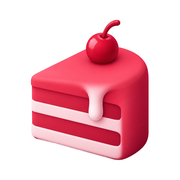
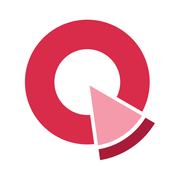
feat(brand): 심볼과 앱 아이콘을 파이 차트로 교체 + spec, design 갱신
- symbol.svg(원 고리 #D92B4A, 파이 조각 몸통 #F59AAB, 크러스트 #A81C38) 추가, 벡터 원본
- app-icon, app-icon-macos, symbol, favicon-32/48, apple-touch-icon, 데스크톱 icon·tray, 웹·웹사이트 파비콘을 SVG에서 다시 만듦
- og.png 새 심볼로 다시 만듦
- 04-brand, 28-website, DESIGN, Brand, Illustrations, DEV_GUIDE: 상징 설명을 케이크 조각 → 파이 차트, ‘케이크 분홍’ → ‘분홍’

Claude-Session: https://claude.ai/code/session_011XUPzQwUTy2QBAmKAmrj3h

diff --git a/packages/ui/src/styles/tokens.css b/packages/ui/src/styles/tokens.css
@@ -1,4 +1,4 @@
-/* docs/design/tokens.css에서 복사 (345b148). 손으로 고치지 말고 원본을 고친 뒤 pnpm ds:sync */
+/* docs/design/tokens.css에서 복사 (bd294e4). 손으로 고치지 말고 원본을 고친 뒤 pnpm ds:sync */
 /* sweeTwo — generated from tokens.json */
 :root, [data-theme="light"] {
   --surface: #ffffff; /* 앱 바탕과 기본 카드 바탕. 모든 본문 글자는 이 위에서 읽혀야 함. */
@@ -14,7 +14,7 @@
   --muted: #a8a59e; /* 비활성 글자·아이콘에만. 자리표시·다른 달 날짜는 stone. 읽어야 하는 정보에는 쓰지 않음. */
   --on-ink: #ffffff; /* 주 버튼(ink 바탕) 위 글자. */
   --primary-pressed: #3a3835; /* 주 버튼 누름 상태 바탕. 글자는 on-ink. */
-  --brand: #d92b4a; /* sweeTwo 브랜드 색(케이크 분홍, 심볼 케이크 조각의 분홍빛을 한 단계 진하게). 작은 점과 글자에만: 워드마크, 달성 배지, 새 알림 점, 순자산 차트 끝점. 카드·띠·패널 같은 넓은 면과 버튼에는 쓰지 않음(오류 버튼과 헷갈림). */
+  --brand: #d92b4a; /* sweeTwo 브랜드 색(분홍, 심볼 원 고리 색). 작은 점과 글자에만: 워드마크, 달성 배지, 새 알림 점, 순자산 차트 끝점. 카드·띠·패널 같은 넓은 면과 버튼에는 쓰지 않음(오류 버튼과 헷갈림). */
   --brand-soft: #fde8ec; /* 브랜드 색의 옅은 판. 달력의 오늘 날짜 칸에만. */
   --brand-ink: #9e0f2c; /* brand-soft 위 글자(오늘 날짜), 축하 화면 머리글 글자. */
   --on-brand: #ffffff; /* brand 바탕 위 글자(달성 배지). 라이트는 흰 글자, 다크는 어두운 글자. */

diff --git a/docs/design/tokens.css b/docs/design/tokens.css
@@ -13,7 +13,7 @@
   --muted: #a8a59e; /* 비활성 글자·아이콘에만. 자리표시·다른 달 날짜는 stone. 읽어야 하는 정보에는 쓰지 않음. */
   --on-ink: #ffffff; /* 주 버튼(ink 바탕) 위 글자. */
   --primary-pressed: #3a3835; /* 주 버튼 누름 상태 바탕. 글자는 on-ink. */
-  --brand: #d92b4a; /* sweeTwo 브랜드 색(케이크 분홍, 심볼 케이크 조각의 분홍빛을 한 단계 진하게). 작은 점과 글자에만: 워드마크, 달성 배지, 새 알림 점, 순자산 차트 끝점. 카드·띠·패널 같은 넓은 면과 버튼에는 쓰지 않음(오류 버튼과 헷갈림). */
+  --brand: #d92b4a; /* sweeTwo 브랜드 색(분홍, 심볼 원 고리 색). 작은 점과 글자에만: 워드마크, 달성 배지, 새 알림 점, 순자산 차트 끝점. 카드·띠·패널 같은 넓은 면과 버튼에는 쓰지 않음(오류 버튼과 헷갈림). */
   --brand-soft: #fde8ec; /* 브랜드 색의 옅은 판. 달력의 오늘 날짜 칸에만. */
   --brand-ink: #9e0f2c; /* brand-soft 위 글자(오늘 날짜), 축하 화면 머리글 글자. */
   --on-brand: #ffffff; /* brand 바탕 위 글자(달성 배지). 라이트는 흰 글자, 다크는 어두운 글자. */

diff --git a/packages/ui/src/styles/bundle.css b/packages/ui/src/styles/bundle.css
@@ -1,4 +1,4 @@
-/* docs/design/bundle.css에서 복사 (345b148). 손으로 고치지 말고 원본을 고친 뒤 pnpm ds:sync */
+/* docs/design/bundle.css에서 복사 (bd294e4). 손으로 고치지 말고 원본을 고친 뒤 pnpm ds:sync */
 /* sweeTwo 컴포넌트 스타일: tokens.css 다음에 로드. 모든 값은 토큰에서. */
 .hg-root { font-family: var(--font-sans); color: var(--ink); background: var(--surface); font-variant-numeric: tabular-nums; }
 .hg-row { display: flex; flex-wrap: wrap; gap: var(--space-3); align-items: center; }

diff --git a/docs/spec/04-brand.md b/docs/spec/04-brand.md
@@ -3,9 +3,9 @@
 ## 1. 브랜드 핵심
 
 - **이름**: sweeTwo(스위투). sweet + two, 달콤한 둘. T는 늘 대문자
-- **슬로건**: “함께 구워 더 달콤한 자산파이”. 둘이 함께 모은 돈(자산파이)을 둘이 함께 구워 키운 파이의 한 조각이라는 뜻, 상징(케이크 조각)과 짝
+- **슬로건**: “함께 구워 더 달콤한 자산파이”. 둘이 함께 모은 돈(자산파이)을 둘이 함께 구워 키운 파이의 한 조각이라는 뜻, 상징(파이 차트 조각)과 짝
 - 캐치프레이즈는 ‘함께 구워 더 달콤한 자산파이’ 하나만. 새 표어를 만들지 않음
-- **상징**: 체리를 얹은 케이크 조각(3D). 앱 아이콘, 심볼, 파비콘이 모두 이 그림
+- **상징**: 파이 차트(원 고리 + 빠져나온 파이 조각, 평면). 앱 아이콘, 심볼, 파비콘이 모두 이 그림
 
 **한 줄 정의**: 둘이 처음 함께 돈을 모으는 시기를, 다음 할 일 하나씩으로 가볍게 이끌어 주는 부부 돈 코치
 
@@ -24,8 +24,8 @@
 
 ## 3. 비주얼
 
-- 화면 기본은 흰 바탕 + 검정 알약(ink) 주 버튼과 무채색. 브랜드 색(케이크 분홍)은 작은 점과 글자에만
-- 브랜드 색(케이크 분홍) brand: 라이트 #D92B4A, 다크 #FF6B85. 심볼 케이크 조각의 분홍빛을 한 단계 진하게. 옅은 판 brand-soft: #FDE8EC / #3D1820, 그 위 글자 brand-ink: #9E0F2C / #FFB3BF. brand 바탕 위 글자는 라이트에서 흰 글자, 다크에서 어두운 글자
+- 화면 기본은 흰 바탕 + 검정 알약(ink) 주 버튼과 무채색. 브랜드 색(분홍)은 작은 점과 글자에만
+- 브랜드 색(분홍) brand: 라이트 #D92B4A, 다크 #FF6B85. 심볼 원 고리 색. 옅은 판 brand-soft: #FDE8EC / #3D1820, 그 위 글자 brand-ink: #9E0F2C / #FFB3BF. brand 바탕 위 글자는 라이트에서 흰 글자, 다크에서 어두운 글자
 - brand 쓰는 곳: 워드마크(앱 안 한 화면 1개), 달성 배지, 새 알림 점(순자산 차트 끝점은 없어짐)
 - brand-soft 쓰는 곳: 달력의 오늘 날짜 칸만. 제안 카드 머리와 월말 정리 띠는 무채색(surface-alt)
 - 브랜드 색을 쓰지 않는 곳: 카드, 띠, 패널 같은 넓은 면, 모든 버튼(오류 버튼과 헷갈림), 숫자 알약(이번 달 탭 옆 제안 수, 우선순위 순번은 ink), 변화 알약(기본 회색 surface-alt. 월별 저축과 순자산 차트의 변화 알약만 포인트색: 계획 100% 이상·증가 초록, 미만·감소 살구, 빨강 없음), 진행 막대, 본문 글자색, 순자산 차트 면(ink 옅은 면)
@@ -34,7 +34,7 @@
 - 목표(goal) 틴트는 따뜻한 모래색: goal 라이트 #F6EEE5 / 다크 #2E2620, 글자 goal-ink #6B4A2B / #E8CFB2. 목표 차트색은 살구 #E3A15F / 다크 #BE8838. 둘 다 브랜드 색과 별개
 - 손실·미달은 경고색 없이. 오류색 danger는 브랜드 분홍과 구분되는 주황빛 빨강(라이트 #C2410C, 다크 #FF8A5C), 입력 오류·저장 실패에만, 항상 아이콘·문구와 같이
 - 글꼴 SUIT. 작은 아이콘(메뉴, 버튼, 목록, 입력 칸)은 Phosphor 아이콘(MIT 라이선스)의 굵은 둥근 선, 크기 16·20·24. 채운 모양은 현재 선택된 자리에만(상단 메뉴 줄 현재 탭, 하단 독 현재 칸, 켜진 상태). 색은 글자색 그대로(검정, 회색), 체리나 영역색으로 칠하지 않음
-- 큰 자리 그림(목표 카드 그림, 목표 달성 화면, 온보딩 결과, 빈 상태)은 앱 아이콘(케이크 조각)과 같은 3D 그림체: 부드러운 무광 3D, 단순한 둥근 모양, 은은한 그라데이션, 흰 바탕, 색 3\~4가지에 체리색 포인트. 물건 1개. 바탕 지운 PNG. 사람 얼굴, 글자, 로고 없음. 목표 그림 21장, 빈 상태 1장, 장면 그림 5장 모두 이 그림체(힙스필드에서 앱 아이콘 케이크를 그림체 참고로 넣어 생성). 빈 상태 그림은 부스러기만 남은 빈 디저트 접시와 포크 한 장(→ 화면 설계 › 공통 › 공통 상태). 목표 그림 21개(직접 만들기는 회색 기본 그림 goal-custom, 사용자가 사진으로 바꿀 수 있음 → 목표 G-02)는 디자인 시스템 Illustrations 묶음이 정본
+- 큰 자리 그림(목표 카드 그림, 목표 달성 화면, 온보딩 결과, 빈 상태)은 지금 목표 그림과 같은 3D 그림체(심볼은 평면 파이 차트로 바뀌었고 그림체는 그대로): 부드러운 무광 3D, 단순한 둥근 모양, 은은한 그라데이션, 흰 바탕, 색 3\~4가지에 체리색 포인트. 물건 1개. 바탕 지운 PNG. 사람 얼굴, 글자, 로고 없음. 목표 그림 21장, 빈 상태 1장, 장면 그림 5장 모두 이 그림체(힙스필드에서 기존 목표 그림을 그림체 참고로 넣어 생성). 빈 상태 그림은 부스러기만 남은 빈 디저트 접시와 포크 한 장(→ 화면 설계 › 공통 › 공통 상태). 목표 그림 21개(직접 만들기는 회색 기본 그림 goal-custom, 사용자가 사진으로 바꿀 수 있음 → 목표 G-02)는 디자인 시스템 Illustrations 묶음이 정본
 - 사람 색(Avatar)은 → 화면 설계 › 공통
 
 **그림 움직임 규칙**
@@ -51,32 +51,33 @@
 
 ## 4. 로고·앱 아이콘 규격
 
-워드마크, 상징 그림, 심볼, 앱 아이콘(체리를 얹은 케이크 조각, 최종) 모두 확정. 파일은 [sweeTwo 디자인 시스템](https://claude.ai/artifact/5KKC9HnqXVWEja5sif5JjF) Brand 묶음의 확정 파일만 사용.
+워드마크, 상징 그림, 심볼, 앱 아이콘(파이 차트, 2026-10-18 교체) 모두 확정. 파일은 [sweeTwo 디자인 시스템](https://claude.ai/artifact/5KKC9HnqXVWEja5sif5JjF) Brand 묶음의 확정 파일만 사용.
 
 **워드마크**
 
 - 둥근 붓 필기체 “sweeTwo”. Damion 폰트를 바탕으로 글자 이음과 굵기를 다듬음. 폰트는 OFL로 상업 사용 가능
 - 글꼴로 다시 치지 않고 확정 SVG 파일만 사용
-- 기본 색은 케이크 분홍(brand), 분홍 바탕 위에서는 흰색, 한 가지 색 인쇄는 검정. 다른 색, 그림자, 외곽선 금지
-- 앱 안 워드마크도 케이크 분홍, 한 화면 1개만
+- 기본 색은 브랜드 분홍(brand), 분홍 바탕 위에서는 흰색, 한 가지 색 인쇄는 검정. 다른 색, 그림자, 외곽선 금지
+- 앱 안 워드마크도 브랜드 분홍, 한 화면 1개만
 - T와 w 사이는 다른 글자 사이와 같은 간격
 
 **상징 그림**
 
 - 미니 체리 타르트(3D 그림체): 주름진 쿠키 컵, 생크림, 꼭지 달린 체리 한 알, 흰 바탕
-- 체리 타르트는 A-02 로그인 첫 화면 장면 그림 전용: Illustrations의 scene-tart.webp(영상 motion-a02-tart.mp4는 예전 실사, 3D 재제작 보류). 앱 아이콘, 심볼, SNS 공유 이미지, 랜딩(L-01)에는 케이크 조각을 씀
-- 앱 아이콘은 아래 ‘앱 아이콘’(케이크 조각)
+- 체리 타르트는 A-02 로그인 첫 화면 장면 그림 전용: Illustrations의 scene-tart.webp(영상 motion-a02-tart.mp4는 예전 실사, 3D 재제작 보류). 앱 아이콘, 심볼, SNS 공유 이미지, 랜딩(L-01)에는 파이 차트 심볼을 씀
+- 앱 아이콘은 아래 ‘앱 아이콘’(파이 차트)
 - 앱 화면 안에는 A-02 로그인 첫 화면에만 씀
 
 **앱 아이콘**
 
-- 체리를 얹은 케이크 조각(3D): 비스듬히 본 조각 하나. 앞은 뾰족, 뒤는 둥근 크러스트, 옆면에 연분홍 크림 층 두 줄, 윗면에서 흘러내린 크림 한 방울, 위에 꼭지 짧은 체리 한 알. 케이크는 체리 계열 그라데이션, 크림 연분홍. 흰 바탕, 그림자 없음, 케이크 정가운데, 케이크 긴 쪽이 아이콘의 약 78%, 말랑한 3D. 뜻: ‘함께 구워 더 달콤한 자산파이’의 한 조각
-- 파일(디자인 시스템 Brand): app-icon.png(1024, 흰 바탕, 그림자 없음, 케이크 정가운데), app-icon-macos.png(Mac 독용), symbol.png(같은 케이크 조각, 바탕 없음 512), favicon-32/48.png(케이크 조각), apple-touch-icon.png(180)
-- 상태: 최종 확정. 설치 파일용 .icns와 .ico, macOS 트레이 템플릿(한 색 실루엣)은 개발할 때 만듦
+- 평면 파이 차트: 두꺼운 원 고리(brand #D92B4A)와 오른쪽 아래로 빠져나온 파이 조각 하나. 조각은 끝이 원 가운데를 향한 삼각형 몸통(연분홍 #F59AAB)과 얇은 틈 뒤 둥근 크러스트 띠(진분홍 #A81C38). 그라데이션, 그림자, 입체감, 글자 없음. 흰 바탕, 그림 정가운데, 긴 쪽이 아이콘의 약 78%. 뜻: 둘이 함께 키운 자산파이에서 떼어 낸 한 조각
+- 파일(디자인 시스템 Brand): app-icon.png(1024, 흰 바탕, 그림자 없음, 그림 정가운데), app-icon-macos.png(Mac 독용), symbol.png(같은 파이 차트, 바탕 없음 512), favicon-32/48.png(파이 차트), apple-touch-icon.png(180)
+- 상태: 확정(2026-10-18 케이크 조각에서 파이 차트로 교체). 설치 파일용 .icns와 .ico, macOS 트레이 템플릿(한 색 실루엣)은 개발할 때 만듦
 
 **심볼**
 
-- symbol.png: 앱 아이콘과 같은 케이크 조각, 바탕 없음 512. 트레이 아이콘, SNS 공유 이미지, 랜딩(L-01) 그림에 씀
+- symbol.svg: 심볼 원본 벡터. PNG(앱 아이콘, 심볼, 파비콘)는 모두 이 SVG에서 만듦
+- symbol.png: 앱 아이콘과 같은 파이 차트, 바탕 없음 512. 트레이 아이콘, SNS 공유 이미지, 랜딩(L-01) 그림에 씀
 - 파비콘과 홈 화면에 추가용 아이콘은 앱 아이콘 파일(favicon-32/48.png, apple-touch-icon.png)을 씀
 
 **여백·최소 크기**
@@ -88,16 +89,16 @@
 
 | 쓰는 곳 | 규격 |
 | --- | --- |
-| macOS 앱 아이콘 | app-icon-macos.png: 케이크 조각, 둥근 사각형과 여백, 그림자를 파일에 넣음(1024 캔버스에 824 둥근 사각). .icns, 16\~1024px(개발할 때 app-icon-macos.png로 만듦) |
-| Windows 앱 아이콘 | 케이크 조각. .ico, 16·24·32·48·64·256px(개발할 때 만듦) |
-| 모바일·스토어 앱 아이콘 | app-icon.png: 케이크 조각, 흰 바탕, 그림자 없음, 케이크 정가운데, 1024px 꽉 찬 정사각형(모서리는 iPhone과 Android가 깎음) |
-| 트레이(메뉴 막대) 아이콘 | 심볼(symbol.png, 케이크 조각), 16·32px. macOS 메뉴 막대용 템플릿(한 색 실루엣)은 개발할 때 만듦 |
-| 웹 파비콘 | favicon-32/48.png(케이크 조각), 홈 화면에 추가용 apple-touch-icon.png 180px(앱 아이콘과 같음), 192·512px PNG |
+| macOS 앱 아이콘 | app-icon-macos.png: 파이 차트, 둥근 사각형과 여백, 그림자를 파일에 넣음(1024 캔버스에 824 둥근 사각). .icns, 16\~1024px(개발할 때 app-icon-macos.png로 만듦) |
+| Windows 앱 아이콘 | 파이 차트. .ico, 16·24·32·48·64·256px(개발할 때 만듦) |
+| 모바일·스토어 앱 아이콘 | app-icon.png: 파이 차트, 흰 바탕, 그림자 없음, 그림 정가운데, 1024px 꽉 찬 정사각형(모서리는 iPhone과 Android가 깎음) |
+| 트레이(메뉴 막대) 아이콘 | 심볼(symbol.png, 파이 차트), 16·32px. macOS 메뉴 막대용 템플릿(한 색 실루엣)은 개발할 때 만듦 |
+| 웹 파비콘 | favicon-32/48.png(파이 차트), 홈 화면에 추가용 apple-touch-icon.png 180px(앱 아이콘과 같음), 192·512px PNG |
 | 웹 앱 manifest | 192·512px 아이콘(파비콘과 같은 그림) + 이름·테마 색 |
-| 메일 머리 로고 | 워드마크 케이크 분홍(brand), 2배 PNG |
-| 소셜 공유 이미지 | 1200×630. 흰 바탕에 워드마크 + 심볼(symbol.png, 케이크 조각), 웹사이트 모든 페이지 공유용(→ 화면 설계 › 웹사이트) |
-| SNS 프로필 | 앱 아이콘(케이크 조각, app-icon.png) |
-| 카카오·구글·애플 로그인 앱 로고 | 앱 아이콘(케이크 조각, app-icon.png). 각 OAuth 콘솔 요구 규격 |
+| 메일 머리 로고 | 워드마크 브랜드 분홍(brand), 2배 PNG |
+| 소셜 공유 이미지 | 1200×630. 흰 바탕에 워드마크 + 심볼(symbol.png, 파이 차트), 웹사이트 모든 페이지 공유용(→ 화면 설계 › 웹사이트) |
+| SNS 프로필 | 앱 아이콘(파이 차트, app-icon.png) |
+| 카카오·구글·애플 로그인 앱 로고 | 앱 아이콘(파이 차트, app-icon.png). 각 OAuth 콘솔 요구 규격 |
 
 - 파비콘과 트레이 아이콘은 16px에서도 알아볼 것
-- 워드마크 파일: 케이크 분홍(logo-cherry.svg), 흰색, 검정 각 SVG
+- 워드마크 파일: 브랜드 분홍(logo-cherry.svg), 흰색, 검정 각 SVG

diff --git a/docs/design/assets/Brand.md b/docs/design/assets/Brand.md
@@ -1,17 +1,18 @@
 # Brand
 
-브랜드 이름은 sweeTwo(스위투). 워드마크는 둥근 붓 필기체 “sweeTwo”. 브랜드 상징은 체리를 얹은 케이크 조각(3D). 앱 아이콘과 심볼이 같은 그림.
+브랜드 이름은 sweeTwo(스위투). 워드마크는 둥근 붓 필기체 “sweeTwo”. 브랜드 상징은 파이 차트(원 고리 + 빠져나온 파이 조각, 평면). 앱 아이콘과 심볼이 같은 그림.
 
-- `logo-cherry.svg`: 워드마크 기본(`brand` #D92B4A, 심볼 케이크 조각의 분홍빛을 한 단계 진하게). 흰 바탕과 다크 바탕 모두. T와 w 사이는 다른 글자 사이와 같은 간격.
+- `logo-cherry.svg`: 워드마크 기본(`brand` #D92B4A, 심볼 원 고리 색). 흰 바탕과 다크 바탕 모두. T와 w 사이는 다른 글자 사이와 같은 간격.
 - `logo-white.svg`: 분홍 바탕이나 사진 위.
 - `logo-black.svg`: 한 가지 색만 되는 인쇄물.
-- 앱 아이콘 그림: 비스듬히 본 케이크 조각 하나. 앞은 뾰족, 뒤는 둥근 크러스트, 옆면에 연분홍 크림 층 두 줄, 윗면에서 흘러내린 크림 한 방울, 위에 꼭지 짧은 체리 한 알. 케이크는 체리 계열 그라데이션(밝은 체리 → `brand` → 짙은 체리), 크림은 연분홍, 바탕 흰색, 그림자 없음. 케이크는 아이콘 정가운데, 긴 쪽이 아이콘의 약 78%. 말랑한 3D.
+- 앱 아이콘 그림: 평면 파이 차트: 두꺼운 원 고리(`brand` #D92B4A)와 오른쪽 아래로 빠져나온 파이 조각 하나. 조각은 끝이 원 가운데를 향한 삼각형 몸통(연분홍 #F59AAB)과 얇은 틈 뒤 둥근 크러스트 띠(진분홍 #A81C38). 그라데이션, 그림자, 입체감, 글자 없음. 바탕 흰색, 그림은 아이콘 정가운데, 긴 쪽이 아이콘의 약 78%.
 - `app-icon.png`: 앱 아이콘 원본(1024px, 꽉 찬 정사각형, 흰 바탕). iOS·Android는 이 파일을 줄여서 씀. 모서리는 각 OS가 깎음.
 - `app-icon-macos.png`: Mac 독용(1024px). Mac은 모서리를 깎아 주지 않아 둥근 사각형(824px), 여백, 그림자를 파일에 넣음.
-- `symbol.png`: 심볼. 앱 아이콘과 같은 케이크 조각, 바탕 없음(512px). 작은 자리(알림, 프로필 자리, 트레이, SNS 공유 이미지, 랜딩).
-- `favicon-32.png`, `favicon-48.png`: 브라우저 탭 아이콘(케이크 조각, 바탕 없음). `apple-touch-icon.png`: 홈 화면에 추가할 때(180px, 앱 아이콘과 같음).
+- `symbol.svg`: 심볼 원본(벡터, 세 색 #D92B4A, #F59AAB, #A81C38). 아래 PNG는 모두 이 SVG에서 만듦.
+- `symbol.png`: 심볼. 앱 아이콘과 같은 파이 차트, 바탕 없음(512px). 작은 자리(알림, 프로필 자리, 트레이, SNS 공유 이미지, 랜딩).
+- `favicon-32.png`, `favicon-48.png`: 브라우저 탭 아이콘(파이 차트, 바탕 없음). `apple-touch-icon.png`: 홈 화면에 추가할 때(180px, 앱 아이콘과 같음).
 - 체리 타르트 실사는 A-02 로그인 첫 화면 장면 그림으로만 남음(Illustrations `scene-tart`).
 - 화면 안 로고는 `hg-wordmark`(마스크, `brand` 칠, 기본 높이 24px, 큰 자리 40px, 트레이 20px).
-- 금지: 다시 그리기, 늘이기, 기울이기, 색 바꾸기(워드마크는 케이크 분홍, 흰색, 검정만), 그림자, 외곽선. 앱 아이콘에 글자 넣기. 케이크 조각에 장식(점, 별) 더하기.
+- 금지: 다시 그리기, 늘이기, 기울이기, 색 바꾸기(워드마크는 브랜드 분홍, 흰색, 검정만), 그림자, 외곽선. 앱 아이콘에 글자 넣기. 파이 조각에 장식(점, 구멍, 별) 더하기. 세 부분의 색 바꾸기.
 - 여백: 로고 높이의 1/2 이상. 최소 높이 워드마크 16px, 심볼 16px.
 - 상태: 앱 아이콘 확정(2026-10-13). 설치 파일용 .icns/.ico와 macOS 트레이 템플릿(한 색 실루엣)은 개발할 때 만듦.

diff --git a/docs/DEV_GUIDE.md b/docs/DEV_GUIDE.md
@@ -407,14 +407,14 @@ sweetwo/
 
 ### 지킬 것
 
-- 브랜드 색(케이크 분홍)은 워드마크, 달성 배지, 새 알림 점에만(순자산 차트 끝점은 없음). 버튼과 카드 바탕에 쓰지 않음
+- 브랜드 색(분홍)은 워드마크, 달성 배지, 새 알림 점에만(순자산 차트 끝점은 없음). 버튼과 카드 바탕에 쓰지 않음
 - 아이콘은 Phosphor(굵은 선). 켜진 메뉴와 독 칸만 채운 모양
 - 금액과 날짜 표기는 core의 포맷 함수 하나로만 (디자인 시스템 ‘금액 표기’, ‘날짜·시간 표기’ 장)
 
 ### 그림과 장면 영상
 
-- 목표 그림 21장, 빈 상태 그림 1장, 장면 그림 5장: Illustrations 묶음, 배경을 지운 512px. 앱에는 webp(투명, 품질 90)로 넣음(`packages/ui/src/assets/illustrations`). 디자인 시스템 원본은 PNG. 모두 앱 아이콘(케이크 조각)과 같은 무광 3D 그림체. `object-fit: contain`
-- 앱 아이콘(체리를 얹은 케이크 조각, 디자인 시스템 Brand 최종 확정): app-icon.png(1024), app-icon-macos.png, symbol.png(바탕 없음 512, 트레이·공유 이미지·랜딩), favicon-32/48.png, apple-touch-icon.png(180). 설치 파일용 .icns와 .ico, macOS 트레이 템플릿(한 색 실루엣)은 개발할 때 만듦. 체리 타르트는 A-02 장면 그림 scene-tart.webp(Illustrations, 영상 motion-a02-tart.mp4) 전용
+- 목표 그림 21장, 빈 상태 그림 1장, 장면 그림 5장: Illustrations 묶음, 배경을 지운 512px. 앱에는 webp(투명, 품질 90)로 넣음(`packages/ui/src/assets/illustrations`). 디자인 시스템 원본은 PNG. 모두 같은 무광 3D 그림체(심볼은 평면 파이 차트라 그림체가 다름). `object-fit: contain`
+- 앱 아이콘(평면 파이 차트, 2026-10-18 교체): app-icon.png(1024), app-icon-macos.png, symbol.png(바탕 없음 512, 트레이·공유 이미지·랜딩), favicon-32/48.png, apple-touch-icon.png(180). 설치 파일용 .icns와 .ico, macOS 트레이 템플릿(한 색 실루엣)은 개발할 때 만듦. 체리 타르트는 A-02 장면 그림 scene-tart.webp(Illustrations, 영상 motion-a02-tart.mp4) 전용
 - 장면 영상 5개: Motion 묶음, 480px MP4. W-04, P-11, P-01, H-T1, A-02에만. 영상은 예전 실사 그대로, 3D로 다시 만들기와 P-01, H-T1 잘림 수정은 보류(→ 기획서 출시 준비 4장 체크리스트)
 - 재생: `<video muted playsinline autoplay>`, `loop` 없음, 정지 그림을 `poster`로
 - 다크 모드, ‘동작 줄이기’, 로딩 전과 실패 때는 영상 대신 정지 그림

diff --git a/CLAUDE.md b/CLAUDE.md
@@ -51,7 +51,7 @@ Electron + React 18 + TypeScript + Vite, TanStack Query + Zustand, React Router,
 
 - 디자인 시스템의 토큰과 컴포넌트(hg- 클래스)로만 만든다. hex 색, 임의 px 간격을 쓰지 않는다.
 - 컴포넌트 React 래퍼 이름은 디자인 시스템 이름 그대로(`MonthSummary`, `SpendItems`, `BigExpense`, `Button` …). 클래스 이름을 바꾸지 않는다.
-- 브랜드 색(케이크 분홍)은 워드마크, 달성 배지, 새 알림 점에만. 버튼과 카드 바탕에 쓰지 않는다.
+- 브랜드 색(분홍)은 워드마크, 달성 배지, 새 알림 점에만. 버튼과 카드 바탕에 쓰지 않는다.
 - 다크 모드는 토큰이 처리한다. 화면마다 따로 처리하지 않는다.
 - 그림은 Illustrations(512px, 무광 3D), 아이콘은 Phosphor. 그림을 다시 그리거나 색을 바꾸지 않는다.
 - 다크 모드, 좁은 창(768px 미만), ‘동작 줄이기’, 키보드만으로 쓰기를 화면마다 확인한다.

diff --git a/docs/design/assets/Illustrations.md b/docs/design/assets/Illustrations.md
@@ -1,6 +1,6 @@
 # Illustrations
 
-목표 그림, 빈 상태 그림, 장면 그림. 앱 아이콘(케이크 조각)과 같은 무광 3D 그림, 힉스필드에서 1024px로 만들고 바탕을 지운 512px PNG로 배포. 앱 코드에는 같은 그림을 webp로 줄여 넣음(packages/ui, 150KB 이하). 규칙은 README ‘그림’ 장.
+목표 그림, 빈 상태 그림, 장면 그림. 지금 목표 그림과 같은 무광 3D 그림(심볼은 평면 파이 차트, 그림체는 그대로), 힉스필드에서 1024px로 만들고 바탕을 지운 512px PNG로 배포. 앱 코드에는 같은 그림을 webp로 줄여 넣음(packages/ui, 150KB 이하). 규칙은 README ‘그림’ 장.
 
 | 파일 | 목표 | 그림 |
 | --- | --- | --- |

diff --git a/docs/spec/28-website.md b/docs/spec/28-website.md
@@ -47,7 +47,7 @@
 **구현**
 
 - Astro 정적 사이트(확정), 저장소 apps/site, S3 + CloudFront(서울) → 기술·운영 1장
-- 공유 이미지 1200×630(흰 바탕, 워드마크 + 심볼 symbol.png(케이크 조각)) → 브랜드 4장
+- 공유 이미지 1200×630(흰 바탕, 워드마크 + 심볼 symbol.png(파이 차트)) → 브랜드 4장
 
 ## L-01 랜딩 (/)
 
